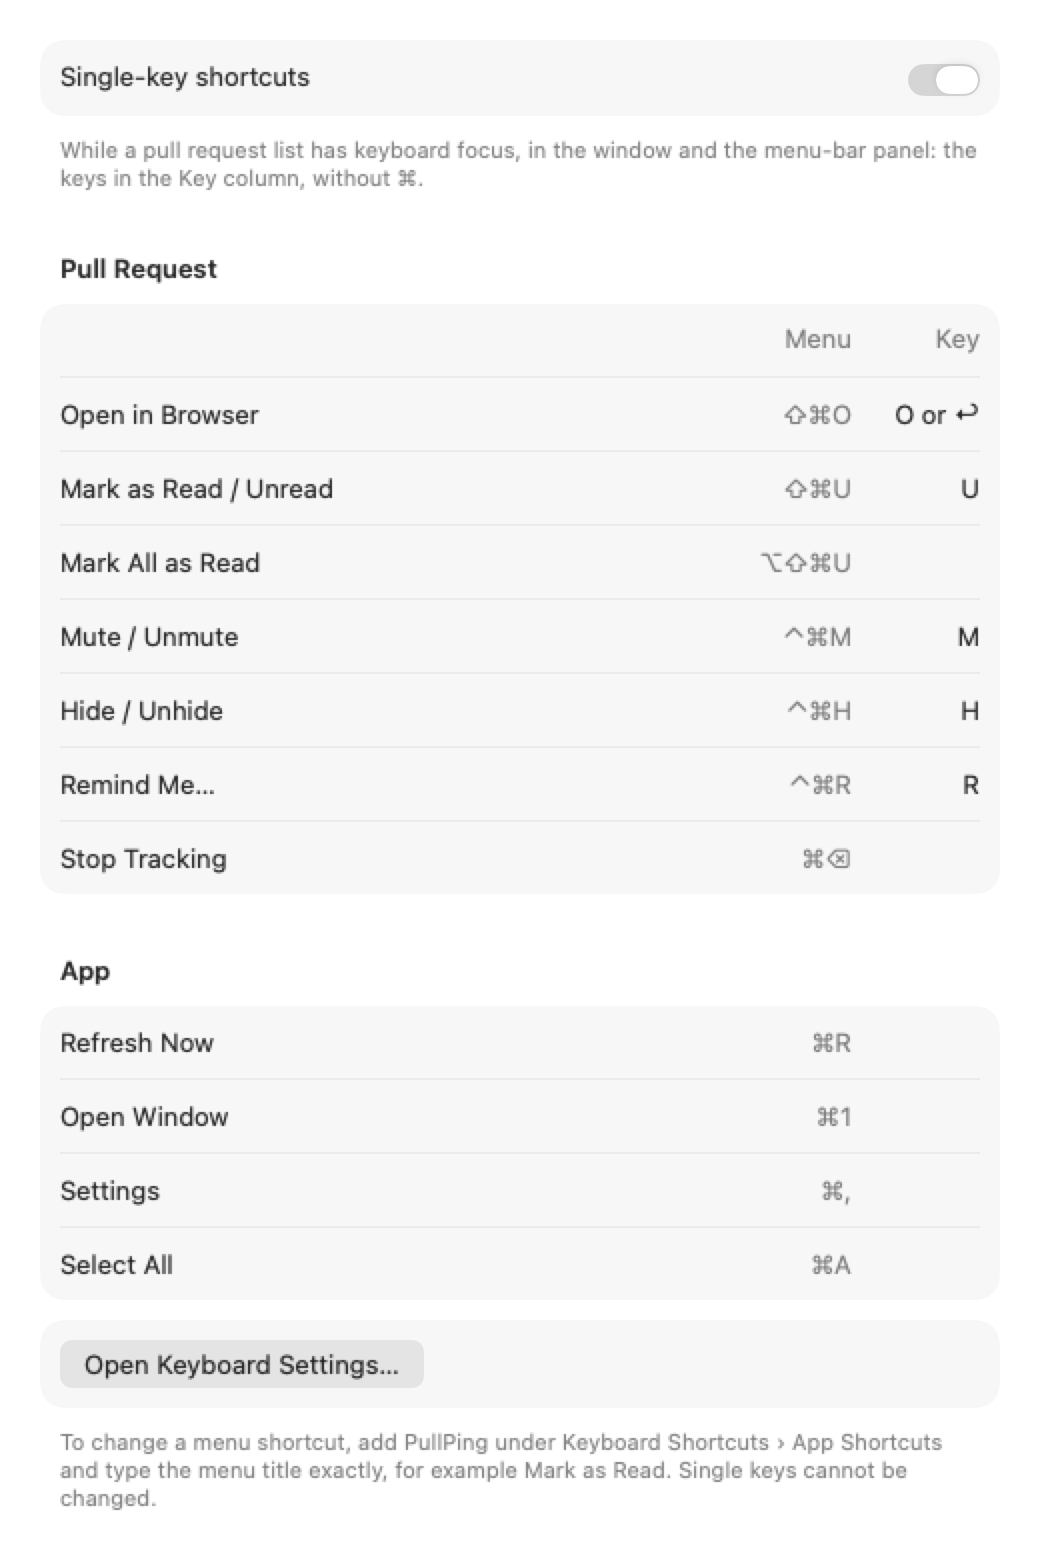
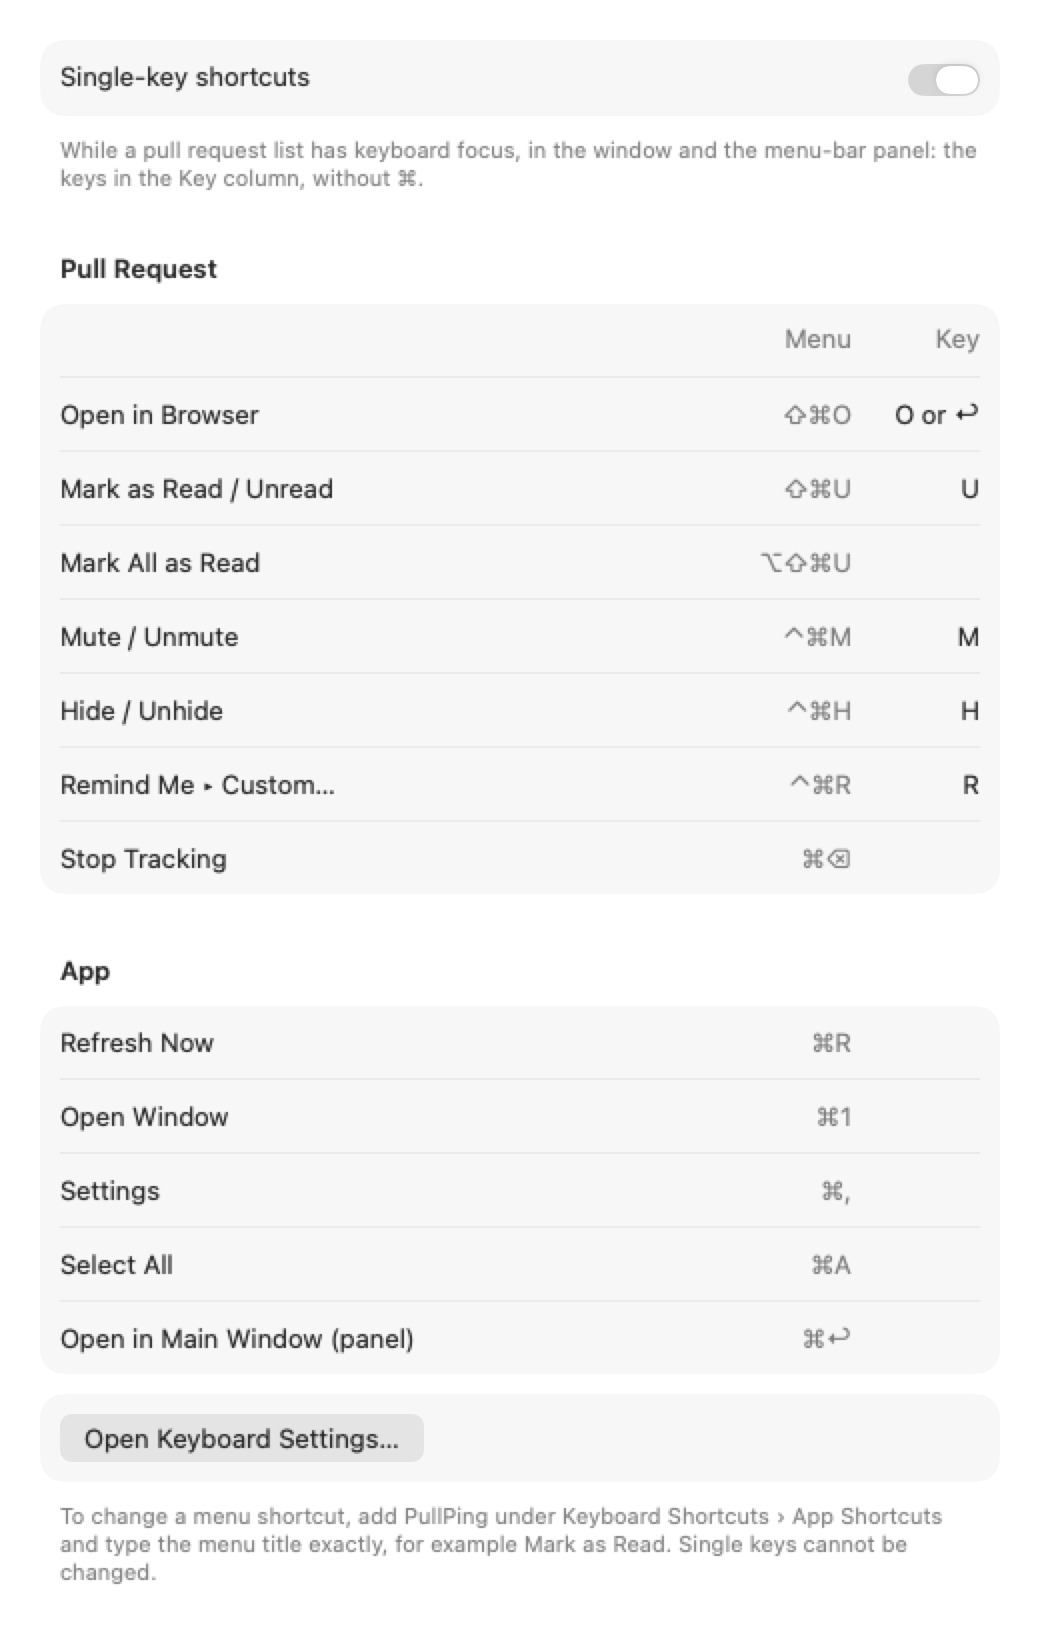
fix(triage): review fixes for sticky rows, Mark as Unread, alerts and shortcuts
- Needs Me keeps a selected row only while it would still need you if unread,
  and refreshes the held list when the sidebar row or search changes with the
  same ids (trimmed query in both places).
- Mark as Unread rewinds to just before the newest need-causing event by
  someone else (mention, assignment, reminder, talk on mine), so a mention
  followed by comments, pushes or CI is back in Needs Me.
- "Open N items" is a sheet on the key main window (app-modal only from the
  panel) and says they will be marked read.
- Stop Tracking (Cmd-Delete) is disabled while the Remind Me sheet is up.
- Single keys use the typed ASCII letter first (Dvorak), the Cmd-mapped one
  only for non-Latin layouts, and only on a key-down event.
- Settings > Shortcuts: rows say "menu ..., key ..." to VoiceOver (no key
  while single keys are off), "Remind Me > Custom..." names the item that
  carries Ctrl-Cmd-R, and the panel's Cmd-Return is listed.

diff --git a/Sources/PullPing/MainView.swift b/Sources/PullPing/MainView.swift
@@ -156,7 +156,11 @@ struct PRListView: View {
     /// Collapsed sections (Drafts) the user opened, by title.
     @State private var opened: Set<String> = []
     /// The ids last shown and their sidebar row (nil while searching): Needs Me keeps a selected row in place.
-    @State private var shown: (item: SidebarItem?, ids: [String]) = (nil, [])
+    @State private var shown = Shown()
+
+    private struct Shown: Equatable {
+        var item: SidebarItem?, ids: [String] = []
+    }
 
     /// The selected row's sections; while searching, every row's items under their row's name.
     private var sections: [ListSection] {
@@ -165,8 +169,12 @@ struct PRListView: View {
         if q.isEmpty && item.filter == .needsMe && shown.item == item {
             // Reading an item (a mention, a comment, a reminder) can end its reason: the selected row stays, in place, until
             // the selection moves on (Mail's Unread filter), so it doesn't vanish under the cursor.
-            let kept = store.selectedIDs.compactMap { store.tracked.prs[$0] }
-                .filter { shown.ids.contains($0.id) && item.scope.matches($0) && $0.state == .open && !$0.muted && !$0.hidden }
+            // Only rows that would still need me if unread: one whose reason ended on GitHub (approved, merged) goes.
+            let kept = store.selectedIDs.compactMap { store.tracked.prs[$0] }.filter { pr in
+                var unread = pr
+                unread.lastReadAt = nil
+                return shown.ids.contains(pr.id) && item.scope.matches(pr) && item.filter.matches(unread, counting: store.settings.badgeReasons)
+            }
             let shownOrder = item.filter.sections(store.prs(item.scope, item.filter)).flatMap(\.prs)
             return item.filter.sections(Attention.keeping(shownOrder, kept, order: shown.ids))
         }
@@ -182,6 +190,8 @@ struct PRListView: View {
         let sections = sections
         let filter = store.listSelection.filter
         let ids = sections.flatMap(\.prs).map(\.id)
+        // Keyed on the row and search state too: switching rows (or clearing a search) with the same ids must refresh `shown`.
+        let key = Shown(item: query.trimmingCharacters(in: .whitespaces).isEmpty ? store.listSelection : nil, ids: ids)
         List(selection: $store.selectedIDs) {
             ForEach(store.errorAccounts) { account in  // FLW-17: inline, with the fix one click away
                 AccountErrorRow(account: account, status: store.statuses[account.id] ?? .ok)
@@ -202,9 +212,9 @@ struct PRListView: View {
                 }
             }
         }
-        .onChange(of: ids, initial: true) { _, ids in  // the detail and the menus never act on a row the list doesn't show
-            shown = (query.isEmpty ? store.listSelection : nil, ids)
-            let visible = store.selectedIDs.intersection(ids)
+        .onChange(of: key, initial: true) { _, key in  // the detail and the menus never act on a row the list doesn't show
+            shown = key
+            let visible = store.selectedIDs.intersection(key.ids)
             if visible != store.selectedIDs { store.selectedIDs = visible }
         }
         .contextMenu(forSelectionType: String.self) { ids in
@@ -501,8 +511,13 @@ extension View {
             guard store.settings.singleKeyShortcuts, !ids.isEmpty, press.modifiers.isDisjoint(with: [.command, .option, .control]) else {
                 return .ignored
             }
-            // The key's Latin letter on Hebrew and other non-Latin layouts: ⌘ switches a layout to its Latin keys.
-            let key = NSApp.currentEvent?.characters(byApplyingModifiers: .command)?.lowercased() ?? press.characters.lowercased()
+            // An ASCII letter as typed (Dvorak keeps its letters). Else the key's Latin letter on Hebrew and other non-Latin
+            // layouts: ⌘ switches a layout to its Latin keys (`characters(byApplyingModifiers:)` raises on a non-key event).
+            var key = press.characters.lowercased()
+            if !key.allSatisfy({ $0.isASCII && $0.isLetter }), let event = NSApp.currentEvent, event.type == .keyDown,
+               let latin = event.characters(byApplyingModifiers: .command) {
+                key = latin.lowercased()
+            }
             let done: String
             switch key {
             case "o": store.open(ids); return .handled

diff --git a/Sources/PullPing/SettingsViews.swift b/Sources/PullPing/SettingsViews.swift
@@ -284,7 +284,7 @@ struct NotificationsTab: View {
 
 /// ntfy pushes (MeetAlert pattern): server and topic in settings, access token and fallback URL in the keychain.
 struct PhoneTab: View {
-    static let height: CGFloat = 640  // plan height; the 18-row table scrolls
+    static let height: CGFloat = 640  // plan height; the 21-row table scrolls
     @Bindable var store: Store
     @State private var sending = false
     @State private var testResult: Bool?
@@ -417,14 +417,15 @@ struct MenuBarTab: View {
 /// Every shortcut, read-only (KBD-1). Menu shortcuts are changed in System Settings (App Shortcuts), so no recorder here;
 /// single keys only switch off.
 struct ShortcutsTab: View {
-    static let height: CGFloat = 780
+    static let height: CGFloat = 820
     @Bindable var store: Store
 
     /// Command, menu shortcut, single key: mirrors `AppCommands`' Pull Request menu and `prKeys`.
     private static let pullRequest = [("Open in Browser", "⇧⌘O", "O or ↩"), ("Mark as Read / Unread", "⇧⌘U", "U"), ("Mark All as Read", "⌥⇧⌘U", ""),
-                                      ("Mute / Unmute", "⌃⌘M", "M"), ("Hide / Unhide", "⌃⌘H", "H"), ("Remind Me…", "⌃⌘R", "R"),
+                                      ("Mute / Unmute", "⌃⌘M", "M"), ("Hide / Unhide", "⌃⌘H", "H"), ("Remind Me ▸ Custom…", "⌃⌘R", "R"),
                                       ("Stop Tracking", "⌘⌫", "")]
-    private static let app = [("Refresh Now", "⌘R"), ("Open Window", "⌘1"), ("Settings", "⌘,"), ("Select All", "⌘A")]
+    private static let app = [("Refresh Now", "⌘R"), ("Open Window", "⌘1"), ("Settings", "⌘,"), ("Select All", "⌘A"),
+                              ("Open in Main Window (panel)", "⌘↩")]
 
     var body: some View {
         Form {
@@ -438,10 +439,15 @@ struct ShortcutsTab: View {
                     .foregroundStyle(.secondary)
                     .accessibilityHidden(true)  // a header: each row below reads its own shortcuts
                 ForEach(Self.pullRequest, id: \.0) { command, menu, key in
+                    let keys = store.settings.singleKeyShortcuts
                     LabeledContent(command) {
-                        columns(menu, key, keyStyle: store.settings.singleKeyShortcuts ? AnyShapeStyle(.primary) : AnyShapeStyle(.tertiary))
+                        columns(menu, key, keyStyle: keys ? AnyShapeStyle(.primary) : AnyShapeStyle(.tertiary))
                     }
-                    .accessibilityElement(children: .combine)
+                    // Says which is which ("menu ⌃⌘M, key M"); no key while single keys are off.
+                    .accessibilityElement(children: .ignore)
+                    .accessibilityLabel(command)
+                    .accessibilityValue([menu.isEmpty ? nil : "menu \(menu)", keys && !key.isEmpty ? "key \(key)" : nil]
+                        .compactMap { $0 }.joined(separator: ", "))
                 }
             }
             Section("App") {

diff --git a/Sources/PullPingCore/Attention.swift b/Sources/PullPingCore/Attention.swift
@@ -81,12 +81,17 @@ public enum Attention {
         pr.markedUnread = false
     }
 
-    /// Mark as Unread: the flag lights the dot; rewinding the read mark to just before the newest event by someone else
-    /// brings back the reason that event gave (a mention, a comment on my pull request, a due reminder). Not `lastReadAt =
-    /// nil`: that would revive weeks-old mentions.
+    /// Mark as Unread: the flag lights the dot; rewinding the read mark to just before the newest event by someone else that
+    /// gives a reason (a mention, an assignment, a due reminder, a comment or review on mine), else the newest event by
+    /// someone else, brings that reason back even when later comments, pushes or CI followed. Not `lastReadAt = nil`: that
+    /// would revive weeks-old mentions.
     public static func markUnread(_ pr: inout TrackedPR) {
         pr.markedUnread = true
-        guard let newest = pr.events.filter({ !$0.isOwn }).map(\.at).max(), let read = pr.lastReadAt, read >= newest else { return }
+        let others = pr.events.filter { !$0.isOwn }
+        let mine = pr.roles.contains(.author) || (pr.isIssue && pr.roles.contains(.assigned))
+        let reasons = Set<EventKind>([.mentioned, .assigned, .reminder]).union(mine ? talk : [])
+        guard let newest = others.filter({ reasons.contains($0.kind) }).map(\.at).max() ?? others.map(\.at).max(),
+              let read = pr.lastReadAt, read >= newest else { return }
         // Whole seconds: the state file stores ISO-8601 dates without fractions.
         pr.lastReadAt = Date(timeIntervalSince1970: (newest.timeIntervalSince1970 - 1).rounded(.down))
     }
@@ -210,7 +215,6 @@ public enum Attention {
         guard pr.state == .open, !pr.muted, !pr.hidden else { return nil }
         let unread = pr.events.filter { !$0.isOwn && $0.at > (pr.lastReadAt ?? .distantPast) }
         let mine = pr.roles.contains(.author) || (pr.isIssue && pr.roles.contains(.assigned)), bucket = bucket(pr)
-        let talk: Set<EventKind> = [.comment, .reviewApproved, .reviewChangesRequested, .reviewCommented]
         let checks: [(NeedReason, Bool)] = [
             (.toReview, bucket == .review),
             (.reReview, bucket == .reReview),
@@ -226,6 +230,9 @@ public enum Attention {
         ]
         return checks.first { counting.contains($0.0) && $0.1 }?.0
     }
+
+    /// Comments and reviews: `newComments` on my pull requests and issues.
+    static let talk: Set<EventKind> = [.comment, .reviewApproved, .reviewChangesRequested, .reviewCommented]
 
     /// When the item entered `reason`: its newest event of a kind that causes the reason, else `updatedAt`.
     public static func waitingSince(_ pr: TrackedPR, _ reason: NeedReason) -> Date { causedAt(pr, reason) ?? pr.updatedAt }

diff --git a/Tests/PullPingCoreTests/AttentionTests.swift b/Tests/PullPingCoreTests/AttentionTests.swift
@@ -450,6 +450,38 @@ final class AttentionTests: XCTestCase {
         XCTAssertEqual(Attention.unread(p), 1)
     }
 
+    func testMarkUnreadBringsBackAMentionFollowedByACommentAndCI() {
+        var p = pr(roles: [.commenter])
+        var ci = event(.ciFailed, at: t0.addingTimeInterval(120))
+        ci.actor = "CI"
+        p.events = [event(.mentioned, at: t0), event(.comment, at: t0.addingTimeInterval(60)), ci]
+        Attention.markRead(&p, now: t0.addingTimeInterval(180))
+        XCTAssertNil(Attention.needReason(p))
+        Attention.markUnread(&p)
+        XCTAssertEqual(p.lastReadAt, t0.addingTimeInterval(-1), "just before the mention, not the later comment or CI")
+        XCTAssertEqual(Attention.needReason(p), .mentioned)
+        XCTAssertEqual(Attention.unread(p), 3)
+    }
+
+    func testMarkUnreadOnMineRewindsToTheCommentNotTheLaterPush() {
+        var p = pr(roles: [.author])
+        p.events = [event(.comment, at: t0), event(.newCommits, at: t0.addingTimeInterval(60))]
+        Attention.markRead(&p, now: t0.addingTimeInterval(120))
+        Attention.markUnread(&p)
+        XCTAssertEqual(p.lastReadAt, t0.addingTimeInterval(-1))
+        XCTAssertEqual(Attention.needReason(p), .newComments)
+    }
+
+    func testMarkUnreadWithoutAReasonEventRewindsToTheNewestByOthers() {
+        var p = pr(roles: [.commenter])
+        p.events = [event(.comment, at: t0), event(.newCommits, at: t0.addingTimeInterval(60))]
+        Attention.markRead(&p, now: t0.addingTimeInterval(120))
+        Attention.markUnread(&p)
+        XCTAssertEqual(p.lastReadAt, t0.addingTimeInterval(59), "a comment on someone else's item gives no reason")
+        XCTAssertNil(Attention.needReason(p))
+        XCTAssertEqual(Attention.unread(p), 1)
+    }
+
     func testMarkUnreadLeavesAnUnreadItemsReadMarkAlone() {
         var p = pr()
         p.events = [event(.comment, at: t0), event(.mentioned, at: t0.addingTimeInterval(60))]

diff --git a/Sources/PullPing/Store.swift b/Sources/PullPing/Store.swift
@@ -627,14 +627,17 @@ final class Store {
 
     /// A selection: more than 10 asks first (⌘A then Return would open every tracked item, MOD-8).
     func open(_ ids: Set<String>) {
-        if ids.count > 10 {
-            let alert = NSAlert()
-            alert.messageText = "Open \(ids.count) items in your browser?"
-            alert.addButton(withTitle: "Open")
-            alert.addButton(withTitle: "Cancel")
-            guard alert.runModal() == .alertFirstButtonReturn else { return }
+        guard ids.count > 10 else { for id in ids { open(id) }; return }
+        let alert = NSAlert()
+        alert.messageText = "Open \(ids.count) items in your browser?"
+        alert.informativeText = "They will also be marked read."
+        alert.addButton(withTitle: "Open")
+        alert.addButton(withTitle: "Cancel")
+        let done = { (response: NSApplication.ModalResponse) in
+            if response == .alertFirstButtonReturn { for id in ids { self.open(id) } }
         }
-        for id in ids { open(id) }
+        // A sheet on the main window (MOD-11); app-modal only from the panel, where no window applies.
+        if let window = MainWindow.shared.keyWindow { alert.beginSheetModal(for: window, completionHandler: done) } else { done(alert.runModal()) }
     }
 
     func markRead(_ ids: Set<String>) {

diff --git a/Sources/PullPing/PullPingApp.swift b/Sources/PullPing/PullPingApp.swift
@@ -128,7 +128,7 @@ struct AppCommands: Commands {
                 // ⌘⌫ deletes to line start while typing in the search field (KBD-6).
                 if let text = NSApp.keyWindow?.firstResponder as? NSTextView { text.deleteToBeginningOfLine(nil) } else { store.stopTracking(ids) }
             }
-            .keyboardShortcut(.delete, modifiers: .command).disabled(ids.isEmpty)
+            .keyboardShortcut(.delete, modifiers: .command).disabled(ids.isEmpty || store.remindIDs != nil)  // not behind the Remind Me sheet
             Divider()
             Button("Dismiss All Notifications") { NotificationPanels.shared.dismissAll() }
         }

diff --git a/Sources/PullPing/MainWindow.swift b/Sources/PullPing/MainWindow.swift
@@ -33,6 +33,8 @@ final class MainWindow {
     static let shared = MainWindow()
     var store: Store?  // set once at launch
     private var window: NSWindow?
+    /// The window while it is key: a sheet's parent.
+    var keyWindow: NSWindow? { window?.isKeyWindow == true ? window : nil }
 
     func show(select id: String? = nil) {
         guard let store else { return }
